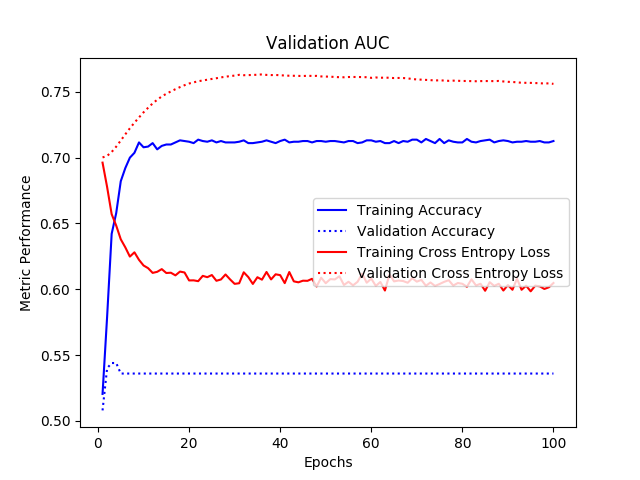
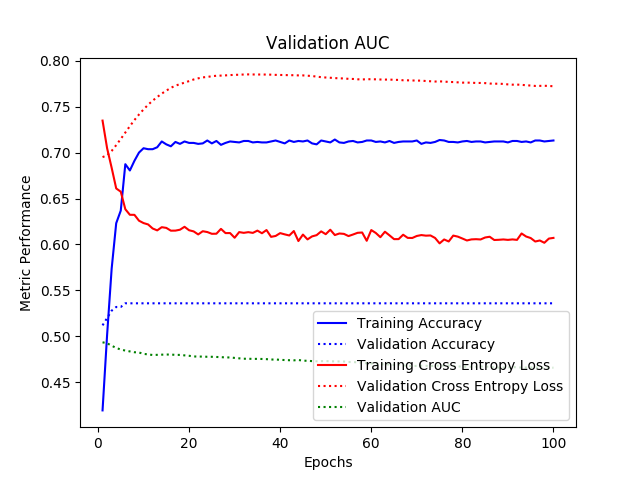
graph

diff --git a/src/lstm_proj_01/vanilla_nn.py b/src/lstm_proj_01/vanilla_nn.py
@@ -155,7 +155,7 @@ if __name__ == '__main__':
     #plt.title('Training and Validation Loss')
     #plt.legend()
     #plt.savefig(loss_plot_filename)
-    
+    plt.plot(epochs, aucloss.auc_test, 'g:', label='Validation AUC')
     #plt.plot(epochs, val_acc, 'b', label = 'Validation Accuracy')
     plt.xlabel('Epochs')
     plt.ylabel('Metric Performance')
